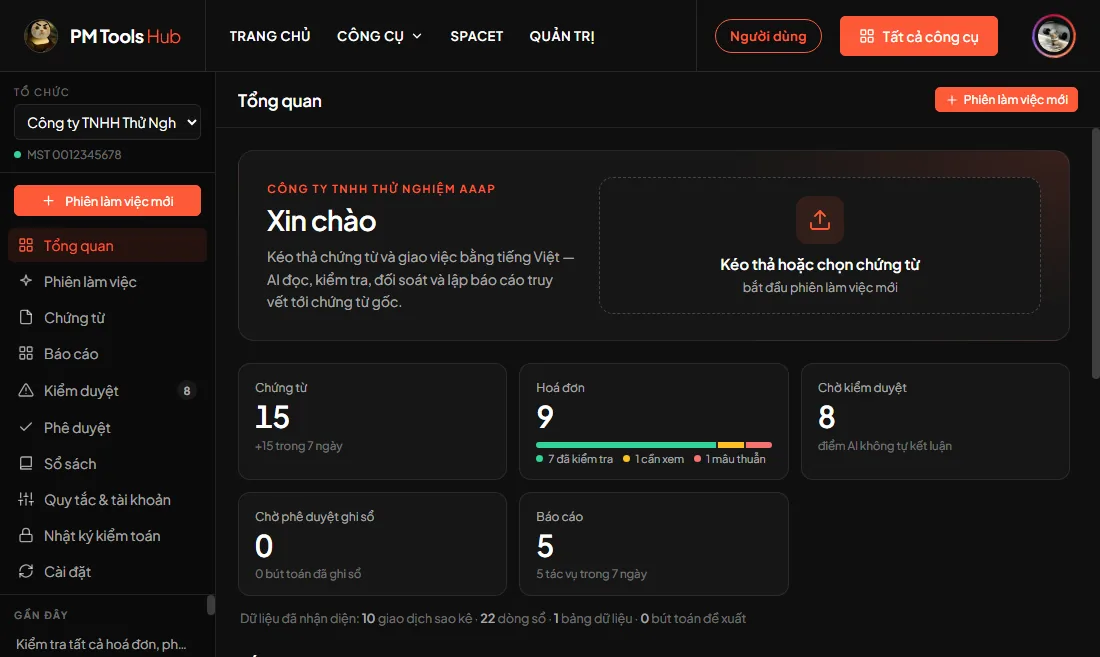
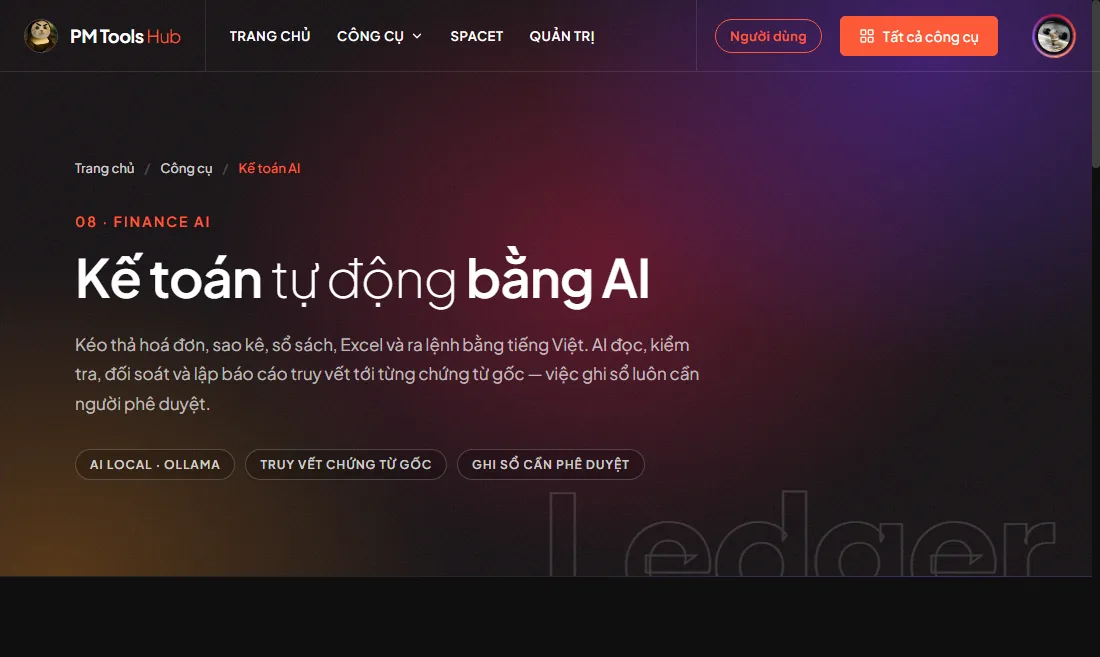
Make /accounting overview follow the Hub page style
Overview now uses the shared pageHero (08 · Finance AI, Ledger word mark) and
numbered mp-panels like other modules; the full-screen workspace opens when the
user starts a session or picks a section. Catalog preview recaptured from the hero.

diff --git a/static/modules/accounting/accountingModule.js b/static/modules/accounting/accountingModule.js
@@ -5,6 +5,7 @@
  */
 
 import { svgIcon } from '../../components/icons.js';
+import { pageHero, panelHead } from '../../components/pageHero.js';
 import { authStore } from '../../stores/authStore.js';
 import { eventBus } from '../../stores/eventBus.js';
 import { api, ApiError, bytes, date, esc, money, status, TERMINAL, uploadFiles, when } from './api.js';
@@ -79,8 +80,7 @@ export const accountingModule = {
     loadCss();
     const s = (this.s = { el, polls: {}, view: 'overview', conv: null, convs: [], tasks: {}, counts: {}, attach: [], uploading: null });
     s.viewport = el.closest('.workspace-container');
-    s.viewport?.classList.add('ac-full');
-    el.innerHTML = '<div class="ac-empty"><p>Đang mở Kế toán AI…</p></div>';
+    el.innerHTML = '<div class="ac-empty" style="padding-top:160px"><p>Đang mở Kế toán AI…</p></div>';
     try {
       s.status = await api('/status');
     } catch (e) {
@@ -92,8 +92,7 @@ export const accountingModule = {
     let saved = null;
     try { saved = localStorage.getItem('ac_org'); } catch { /* chế độ riêng tư */ }
     s.org = (s.orgs.find((o) => o.id === saved) || s.orgs[0]).id;
-    this.shell();
-    await this.loadOrg();
+    await this.go(s.view);
   },
 
   role(r) { return (this.s.orgs.find((o) => o.id === this.s.org)?.roles || []).includes(r); },
@@ -105,6 +104,8 @@ export const accountingModule = {
 
   shell() {
     const s = this.s;
+    s.viewport?.classList.add('ac-full');
+    clearInterval(s.countTimer);
     s.el.innerHTML = `
     <div class="ac-shell no-inspector">
       <aside class="ac-nav">
@@ -129,11 +130,7 @@ export const accountingModule = {
         orgSel.value = s.org;
         return this.newOrg();
       }
-      s.org = orgSel.value;
-      try { localStorage.setItem('ac_org', s.org); } catch { /* bỏ qua */ }
-      s.conv = null;
-      s.insp.close();
-      await this.loadOrg();
+      this.switchOrg(orgSel.value);
     };
     s.el.querySelector('#ac-newconv').onclick = () => { s.conv = null; s.attach = []; this.go('workspace'); this.closeNav(); };
     s.el.querySelectorAll('[data-view]').forEach((b) => (b.onclick = () => { this.go(b.dataset.view); this.closeNav(); }));
@@ -141,7 +138,21 @@ export const accountingModule = {
     s.countTimer = setInterval(() => this.counts(), 20000);
   },
 
-  closeNav() { this.s.shellEl.classList.remove('nav-open'); },
+  closeNav() { this.s.shellEl?.classList.remove('nav-open'); },
+
+  async switchOrg(id) {
+    const s = this.s;
+    s.org = id;
+    try { localStorage.setItem('ac_org', s.org); } catch { /* bỏ qua */ }
+    s.conv = null;
+    s.insp?.close();
+    if (s.shellEl && s.el.contains(s.shellEl)) {
+      s.el.querySelector('#ac-org').innerHTML = `${s.orgs.map((o) => `<option value="${o.id}">${esc(o.name)}</option>`).join('')}<option value="__new">+ Tạo tổ chức mới…</option>`;
+      await this.loadOrg();
+    } else {
+      await this.go(s.view);
+    }
+  },
 
   async newOrg() {
     const name = prompt('Tên tổ chức (doanh nghiệp):');
@@ -150,9 +161,8 @@ export const accountingModule = {
     try {
       const r = await api('/orgs', { method: 'POST', body: { name, tax_id: tax } });
       this.s.orgs = r.orgs;
-      this.s.org = r.org_id;
-      this.shell();
-      await this.loadOrg();
+      this.s.shellEl = null;
+      await this.switchOrg(r.org_id);
     } catch (e) { toast(e.message, 'error'); }
   },
 
@@ -190,12 +200,19 @@ export const accountingModule = {
     } catch { /* bỏ qua */ }
   },
 
-  go(view) {
+  async go(view) {
     const s = this.s;
+    if (view === 'overview') return this.landing();
+    if (!s.shellEl || !s.el.contains(s.shellEl)) {
+      s.view = view;
+      this.shell();
+      await this.loadOrg();  // loadOrg → go(s.view) khi khung đã có
+      return;
+    }
     s.view = view;
     s.shellEl?.classList.remove('insp-wide');  // đổi màn hình: trả khung chính về độ rộng đủ dùng
     s.el.querySelectorAll('[data-view]').forEach((b) => b.classList.toggle('active', b.dataset.view === view));
-    const fn = { overview: 'viewOverview', workspace: 'viewWorkspace', files: 'viewFiles', reports: 'viewReports', reviews: 'viewReviews', approvals: 'viewApprovals',
+    const fn = { workspace: 'viewWorkspace', files: 'viewFiles', reports: 'viewReports', reviews: 'viewReviews', approvals: 'viewApprovals',
       ledger: 'viewLedger', rules: 'viewRules', audit: 'viewAudit', settings: 'viewSettings' }[view];
     this[fn]();
   },
@@ -208,91 +225,128 @@ export const accountingModule = {
     return m;
   },
 
-  // ════════════════════ Tổng quan ════════════════════
-  async viewOverview() {
+  // ════════════════════ Tổng quan (khuôn trang chung của Hub) ════════════════════
+  async landing() {
     const s = this.s;
-    const m = this.main('Tổng quan', '', `<button class="btn btn-primary btn-xs" id="ac-ov-new">${svgIcon('plus', 14, 2)} Phiên làm việc mới</button>`,
-      '<div class="ac-scroll"><div class="ac-pad"><div class="ac-ov" id="ac-body"><div class="ac-note">Đang tải…</div></div></div></div>' +
-      `<div class="ac-drop" id="ac-drop"><div>${svgIcon('upload', 34, 1.6)}<b>Thả để bắt đầu một phiên làm việc mới</b></div></div>`);
-    m.querySelector('#ac-ov-new').onclick = () => this.startSession();
+    s.view = 'overview';
+    Object.values(s.polls).forEach(clearTimeout);
+    s.polls = {};
+    clearInterval(s.countTimer);
+    s.shellEl = null;
+    s.insp = null;
+    s.viewport?.classList.remove('ac-full');
+    if (s.viewport) s.viewport.scrollTop = 0;
+    s.el.innerHTML = `<div class="ac-land-root">
+      ${pageHero(this, {
+        title: 'Kế toán <span class="thin">tự động</span> bằng AI',
+        sub: 'Kéo thả hoá đơn, sao kê, sổ sách, Excel và ra lệnh bằng tiếng Việt. AI đọc, kiểm tra, đối soát và lập báo cáo truy vết tới từng chứng từ gốc — việc ghi sổ luôn cần người phê duyệt.',
+        word: 'Ledger',
+        meta: ['AI local · Ollama', 'Truy vết chứng từ gốc', 'Ghi sổ cần phê duyệt'],
+      })}
+      <div class="mp-body ac-landing" id="ac-land"><div class="mp-panel"><p class="ac-note">Đang tải…</p></div></div>
+      <div class="ac-drop fixed" id="ac-land-drop"><div>${svgIcon('upload', 34, 1.6)}<b>Thả để bắt đầu một phiên làm việc mới</b></div></div>
+    </div>`;
+    const root = s.el.querySelector('.ac-land-root');
+    root.querySelectorAll('[data-link]').forEach((a) => (a.onclick = (e) => { e.preventDefault(); window.router.navigate(a.dataset.link || a.getAttribute('href')); }));
     let d;
     try { d = await api(`/o/${s.org}/overview`); } catch (e) {
-      m.querySelector('#ac-body').innerHTML = `<div class="ac-alert bad">${esc(e.message)}</div>`;
+      s.el.querySelector('#ac-land').innerHTML = `<div class="mp-panel"><div class="ac-alert bad">${esc(e.message)}</div></div>`;
       return;
     }
-    if (this.s !== s || s.view !== 'overview') return;
+    if (this.s !== s || s.view !== 'overview' || !s.el.contains(root)) return;
     const inv = d.invoices.by_status || {};
     const okN = (inv.VERIFIED || 0) + (inv.VALID_EXTRACTED || 0) + (inv.REVIEWED || 0);
     const warnN = (inv.NEEDS_REVIEW || 0) + (inv.NEEDS_EVIDENCE || 0);
     const badN = inv.CONFLICTED || 0;
     const seg = (n, cls, label) => (n ? `<i class="${cls}" style="flex:${n}" title="${label}: ${n}"></i>` : '');
-    const name = authStore.user?.name || authStore.user?.email || '';
     const num = (n) => Number(n || 0).toLocaleString('vi-VN');
     const tile = (label, value, sub, view) => `<button class="ac-kpi link" data-goview="${view}" type="button">
       <span class="ac-kpi-label">${label}</span><span class="ac-kpi-value">${num(value)}</span><span class="ac-kpi-sub">${sub}</span></button>`;
-    const body = m.querySelector('#ac-body');
-    body.innerHTML = `
-      <section class="ac-ov-hero">
-        <div><span class="ac-eyebrow">${esc(d.org.name)}</span>
-          <h1>Xin chào${name ? `, ${esc(name)}` : ''}</h1>
-          <p>Kéo thả chứng từ và giao việc bằng tiếng Việt — AI đọc, kiểm tra, đối soát và lập báo cáo truy vết tới chứng từ gốc.</p></div>
-        <button class="ac-dropcard compact" data-ov-pick type="button"><span class="ac-dropcard-ic">${svgIcon('upload', 24, 1.8)}</span>
-          <b>Kéo thả hoặc chọn chứng từ</b><span>bắt đầu phiên làm việc mới</span></button>
+    const counts = { reviews: d.reviews_open, approvals: d.approvals_pending };
+    const goto = NAV.filter(([id]) => id !== 'overview' && (id !== 'audit' || this.can('audit')));
+    const orgSel = `<select class="ac-select" id="ac-land-org" title="Tổ chức">${s.orgs.map((o) => `<option value="${o.id}" ${o.id === s.org ? 'selected' : ''}>${esc(o.name)}</option>`).join('')}<option value="__new">+ Tạo tổ chức mới…</option></select>`;
+    s.el.querySelector('#ac-land').innerHTML = `
+      <div class="mp-panel">
+        ${panelHead('01', 'Bắt đầu', 'phiên làm việc', `${orgSel}<button class="btn btn-primary btn-sm" id="ac-land-new">${svgIcon('plus', 14, 2)} Phiên làm việc mới</button>`)}
+        ${!d.org.tax_id ? `<div class="ac-alert" style="margin-bottom:16px">Tổ chức chưa khai báo <b>mã số thuế</b> — hệ thống sẽ không phân biệt hoá đơn mua vào / bán ra.
+          <button class="btn btn-secondary btn-xs" data-goview="settings" style="margin-left:6px">Khai báo</button></div>` : ''}
+        <button class="ac-dropcard" data-ov-pick type="button"><span class="ac-dropcard-ic">${svgIcon('upload', 26, 1.8)}</span>
+          <b>Kéo thả chứng từ vào đây hoặc bấm để chọn file</b>
+          <span>Hoá đơn XML/PDF/ảnh · sao kê · sổ quỹ · Excel · CSV · DOCX · ZIP — tối đa ${s.status.limits.max_file_mb} MB/file</span>
+          <span class="ac-fmt">${['XML', 'PDF', 'JPG/PNG', 'XLSX', 'CSV', 'DOCX', 'ZIP'].map((x) => `<i>${x}</i>`).join('')}</span></button>
         <input type="file" id="ac-ov-file" multiple hidden />
-      </section>
-      ${!d.org.tax_id ? `<div class="ac-alert">Chưa khai báo <b>mã số thuế</b> của tổ chức — hệ thống sẽ không phân biệt hoá đơn mua vào / bán ra.
-        <button class="btn btn-secondary btn-xs" data-goview="settings" style="margin-left:6px">Khai báo</button></div>` : ''}
-      <section class="ac-kpis">
-        ${tile('Chứng từ', d.files, d.files_7d ? `+${num(d.files_7d)} trong 7 ngày` : 'bản gốc lưu bất biến', 'files')}
-        <button class="ac-kpi link" data-goview="files" type="button"><span class="ac-kpi-label">Hoá đơn</span>
-          <span class="ac-kpi-value">${num(d.invoices.total)}</span>
-          ${d.invoices.total ? `<span class="ac-statbar" role="img" aria-label="${okN} đã kiểm tra, ${warnN} cần xem, ${badN} mâu thuẫn">${seg(okN, 'ok', 'Đã kiểm tra')}${seg(warnN, 'warn', 'Cần xem')}${seg(badN, 'bad', 'Mâu thuẫn')}</span>
-          <span class="ac-legend"><span><span class="ac-dot ok"></span>${okN} đã kiểm tra</span><span><span class="ac-dot warn"></span>${warnN} cần xem</span>${badN ? `<span><span class="ac-dot bad"></span>${badN} mâu thuẫn</span>` : ''}</span>`
-            : '<span class="ac-kpi-sub">chưa có hoá đơn</span>'}</button>
-        ${tile('Chờ kiểm duyệt', d.reviews_open, d.reviews_open ? 'điểm AI không tự kết luận' : 'không có việc tồn', 'reviews')}
-        ${tile('Chờ phê duyệt ghi sổ', d.approvals_pending, `${num(d.journal.posted)} bút toán đã ghi sổ`, 'approvals')}
-        ${tile('Báo cáo', d.artifacts, `${num(d.tasks.week)} tác vụ trong 7 ngày${d.tasks.running ? ` · ${d.tasks.running} đang chạy` : ''}`, 'reports')}
-      </section>
-      <p class="ac-inventory">Dữ liệu đã nhận diện: <b>${num(d.bank_txns)}</b> giao dịch sao kê · <b>${num(d.ledger_entries)}</b> dòng sổ ·
-        <b>${num(d.tables)}</b> bảng dữ liệu · <b>${num(d.journal.proposed)}</b> bút toán đề xuất</p>
-      <section><div class="ac-section-title"><h3>Bắt đầu nhanh</h3><span>chọn nghiệp vụ → kéo thả file → gửi</span></div>
+        <div class="ac-goto">${goto.map(([id, label, icon]) => `<button class="ac-goto-btn" data-goview="${id}" type="button">${svgIcon(icon, 15, 2)}<span>${label}</span>${counts[id] ? `<span class="ac-badge${id === 'reviews' ? ' muted' : ''}">${counts[id]}</span>` : ''}</button>`).join('')}</div>
+      </div>
+      <div class="mp-panel">
+        ${panelHead('02', 'Tình hình', 'hiện tại')}
+        <div class="ac-kpis">
+          ${tile('Chứng từ', d.files, d.files_7d ? `+${num(d.files_7d)} trong 7 ngày` : 'bản gốc lưu bất biến', 'files')}
+          <button class="ac-kpi link" data-goview="files" type="button"><span class="ac-kpi-label">Hoá đơn</span>
+            <span class="ac-kpi-value">${num(d.invoices.total)}</span>
+            ${d.invoices.total ? `<span class="ac-statbar" role="img" aria-label="${okN} đã kiểm tra, ${warnN} cần xem, ${badN} mâu thuẫn">${seg(okN, 'ok', 'Đã kiểm tra')}${seg(warnN, 'warn', 'Cần xem')}${seg(badN, 'bad', 'Mâu thuẫn')}</span>
+            <span class="ac-legend"><span><span class="ac-dot ok"></span>${okN} đã kiểm tra</span><span><span class="ac-dot warn"></span>${warnN} cần xem</span>${badN ? `<span><span class="ac-dot bad"></span>${badN} mâu thuẫn</span>` : ''}</span>`
+              : '<span class="ac-kpi-sub">chưa có hoá đơn</span>'}</button>
+          ${tile('Chờ kiểm duyệt', d.reviews_open, d.reviews_open ? 'điểm AI không tự kết luận' : 'không có việc tồn', 'reviews')}
+          ${tile('Chờ phê duyệt ghi sổ', d.approvals_pending, `${num(d.journal.posted)} bút toán đã ghi sổ`, 'approvals')}
+          ${tile('Báo cáo', d.artifacts, `${num(d.tasks.week)} tác vụ trong 7 ngày${d.tasks.running ? ` · ${d.tasks.running} đang chạy` : ''}`, 'reports')}
+        </div>
+        <p class="ac-inventory">Dữ liệu đã nhận diện: <b>${num(d.bank_txns)}</b> giao dịch sao kê · <b>${num(d.ledger_entries)}</b> dòng sổ ·
+          <b>${num(d.tables)}</b> bảng dữ liệu · <b>${num(d.journal.proposed)}</b> bút toán đề xuất</p>
+      </div>
+      <div class="mp-panel">
+        ${panelHead('03', 'Bắt đầu', 'nhanh')}
+        <p class="ac-note" style="margin:-12px 0 18px">Chọn nghiệp vụ → kéo thả file → gửi. Câu lệnh được điền sẵn, có thể sửa trước khi gửi.</p>
         <div class="ac-actions-grid">${QUICK.map((q, i) => `<button class="ac-action" data-quick="${i}" type="button">
-          <span class="ac-action-ic">${svgIcon(q[0], 18, 2)}</span><b>${esc(q[1])}</b><span>${esc(q[2])}</span></button>`).join('')}</div></section>
-      <section class="ac-ov-cols">
-        <div><div class="ac-section-title"><h3>Phiên gần đây</h3></div>
-          ${d.recent_tasks.length ? `<div class="ac-list">${d.recent_tasks.map((t) => `<button class="ac-row" data-conv="${t.conversation_id || ''}" type="button">
-            ${status(t.status)}<span class="t">${esc(t.command)}</span><span class="w">${when(t.created_at)}</span></button>`).join('')}</div>`
-            : '<p class="ac-note">Chưa có phiên nào — chọn một nghiệp vụ ở trên để bắt đầu.</p>'}</div>
-        <div><div class="ac-section-title"><h3>Báo cáo gần đây</h3></div>
-          ${d.recent_artifacts.length ? `<div class="ac-list">${d.recent_artifacts.map((a) => `<button class="ac-row" data-art="${a.id}" type="button">
-            <span class="ac-file-ic">${svgIcon(a.kind === 'pdf' ? 'file' : 'grid', 15, 2)}</span><span class="t">${esc(a.name)}</span><span class="w">v${a.version} · ${when(a.created_at)}</span></button>`).join('')}</div>`
-            : '<p class="ac-note">Báo cáo Excel/PDF do AI tạo sẽ xuất hiện ở đây.</p>'}</div>
-      </section>`;
-    body.querySelectorAll('[data-goview]').forEach((b) => (b.onclick = () => this.go(b.dataset.goview)));
-    body.querySelectorAll('[data-quick]').forEach((b) => (b.onclick = () => this.startSession(QUICK[+b.dataset.quick][3])));
-    body.querySelectorAll('[data-conv]').forEach((b) => (b.onclick = () => b.dataset.conv && this.openConv(b.dataset.conv)));
-    body.querySelectorAll('[data-art]').forEach((b) => (b.onclick = () => s.insp.artifact(b.dataset.art, { wide: true })));
-    const fileIn = body.querySelector('#ac-ov-file');
-    body.querySelector('[data-ov-pick]').onclick = () => fileIn.click();
+          <span class="ac-action-ic">${svgIcon(q[0], 18, 2)}</span><b>${esc(q[1])}</b><span>${esc(q[2])}</span></button>`).join('')}</div>
+      </div>
+      <div class="mp-panel">
+        ${panelHead('04', 'Hoạt động', 'gần đây')}
+        <div class="ac-ov-cols">
+          <div><div class="ac-section-title"><h3>Phiên làm việc</h3></div>
+            ${d.recent_tasks.length ? `<div class="ac-list">${d.recent_tasks.map((t) => `<button class="ac-row" data-conv="${t.conversation_id || ''}" type="button">
+              ${status(t.status)}<span class="t">${esc(t.command)}</span><span class="w">${when(t.created_at)}</span></button>`).join('')}</div>`
+              : '<p class="ac-note">Chưa có phiên nào — chọn một nghiệp vụ ở trên để bắt đầu.</p>'}</div>
+          <div><div class="ac-section-title"><h3>Báo cáo</h3></div>
+            ${d.recent_artifacts.length ? `<div class="ac-list">${d.recent_artifacts.map((a) => `<button class="ac-row" data-art="${a.id}" type="button">
+              <span class="ac-file-ic">${svgIcon(a.kind === 'pdf' ? 'file' : 'grid', 15, 2)}</span><span class="t">${esc(a.name)}</span><span class="w">v${a.version} · ${when(a.created_at)}</span></button>`).join('')}</div>`
+              : '<p class="ac-note">Báo cáo Excel/PDF do AI tạo sẽ xuất hiện ở đây.</p>'}</div>
+        </div>
+      </div>`;
+    const land = s.el.querySelector('#ac-land');
+    land.querySelectorAll('[data-goview]').forEach((b) => (b.onclick = () => this.go(b.dataset.goview)));
+    land.querySelectorAll('[data-quick]').forEach((b) => (b.onclick = () => this.startSession(QUICK[+b.dataset.quick][3])));
+    land.querySelectorAll('[data-conv]').forEach((b) => (b.onclick = () => b.dataset.conv && this.openConv(b.dataset.conv)));
+    land.querySelectorAll('[data-art]').forEach((b) => (b.onclick = async () => {
+      await this.go('reports');
+      this.s?.insp?.artifact(b.dataset.art, { wide: true });
+    }));
+    land.querySelector('#ac-land-new').onclick = () => this.startSession();
+    const sel = land.querySelector('#ac-land-org');
+    sel.onchange = () => {
+      if (sel.value === '__new') { sel.value = s.org; this.newOrg(); return; }
+      this.switchOrg(sel.value);
+    };
+    const fileIn = land.querySelector('#ac-ov-file');
+    land.querySelector('[data-ov-pick]').onclick = () => fileIn.click();
     fileIn.onchange = () => { const f = [...fileIn.files]; fileIn.value = ''; this.startSession(null, f); };
-    const drop = m.querySelector('#ac-drop');
+    const drop = root.querySelector('#ac-land-drop');
     let depth = 0;
-    m.addEventListener('dragenter', (e) => { if (e.dataTransfer?.types?.includes('Files')) { depth++; drop.classList.add('on'); e.preventDefault(); } });
-    m.addEventListener('dragover', (e) => { if (e.dataTransfer?.types?.includes('Files')) e.preventDefault(); });
-    m.addEventListener('dragleave', () => { depth = Math.max(0, depth - 1); if (!depth) drop.classList.remove('on'); });
-    m.addEventListener('drop', (e) => {
+    root.addEventListener('dragenter', (e) => { if (e.dataTransfer?.types?.includes('Files')) { depth++; drop.classList.add('on'); e.preventDefault(); } });
+    root.addEventListener('dragover', (e) => { if (e.dataTransfer?.types?.includes('Files')) e.preventDefault(); });
+    root.addEventListener('dragleave', () => { depth = Math.max(0, depth - 1); if (!depth) drop.classList.remove('on'); });
+    root.addEventListener('drop', (e) => {
       e.preventDefault(); depth = 0; drop.classList.remove('on');
       if (e.dataTransfer?.files?.length) this.startSession(null, [...e.dataTransfer.files]);
     });
   },
 
   /** Mở phiên mới (tuỳ chọn điền sẵn lệnh và/hoặc tải file ngay). */
-  startSession(command = null, files = null) {
+  async startSession(command = null, files = null) {
     const s = this.s;
     s.conv = null;
     s.attach = [];
     s.prefill = command;
-    this.go('workspace');
+    await this.go('workspace');
     if (files?.length) this.addFiles(files);
   },
 
@@ -304,7 +358,7 @@ export const accountingModule = {
     } catch (e) { toast(e.message, 'error'); return; }
     s.attach = [];
     s.view = 'workspace';
-    this.go('workspace');
+    await this.go('workspace');
     this.loadConvs();
   },
 
@@ -817,7 +871,7 @@ function loadCss() {
   const l = document.createElement('link');
   l.id = 'ac-css';
   l.rel = 'stylesheet';
-  l.href = '/styles/accounting.css?v=4';
+  l.href = '/styles/accounting.css?v=5';
   document.head.appendChild(l);
 }
 

diff --git a/static/styles/accounting.css b/static/styles/accounting.css
@@ -304,3 +304,19 @@
 .ac-table td { max-width: 380px; }
 
 .ac-badge[hidden] { display: none; }
+
+/* ── Trang Tổng quan theo khuôn chung của Hub (mp-hero + mp-panel) ── */
+.ac-landing { --ac-ok: var(--success); --ac-warn: var(--amber); --ac-bad: var(--rose); --ac-line: var(--border-color); --ac-soft: var(--bg-elevated); }
+.ac-landing .mp-actions .ac-select { max-width: 280px; }
+.ac-landing .ac-kpis { gap: 14px; }
+.ac-landing .ac-inventory { margin: 16px 2px 0; }
+.ac-goto { display: flex; flex-wrap: wrap; gap: 8px; margin-top: 18px; }
+.ac-goto-btn { display: inline-flex; align-items: center; gap: 8px; padding: 8px 13px; border-radius: 999px; border: 1px solid var(--border-color);
+  background: none; color: var(--text-muted); font: inherit; font-size: 13px; cursor: pointer; }
+.ac-goto-btn:hover { border-color: var(--border-accent); color: var(--text-main); }
+.ac-goto-btn svg { color: var(--primary); }
+.ac-drop.fixed { position: fixed; inset: 84px 16px 16px; }
+@media (max-width: 860px) {
+  .ac-landing .mp-actions { width: 100%; }
+  .ac-landing .mp-actions .ac-select { max-width: none; flex: 1; }
+}
